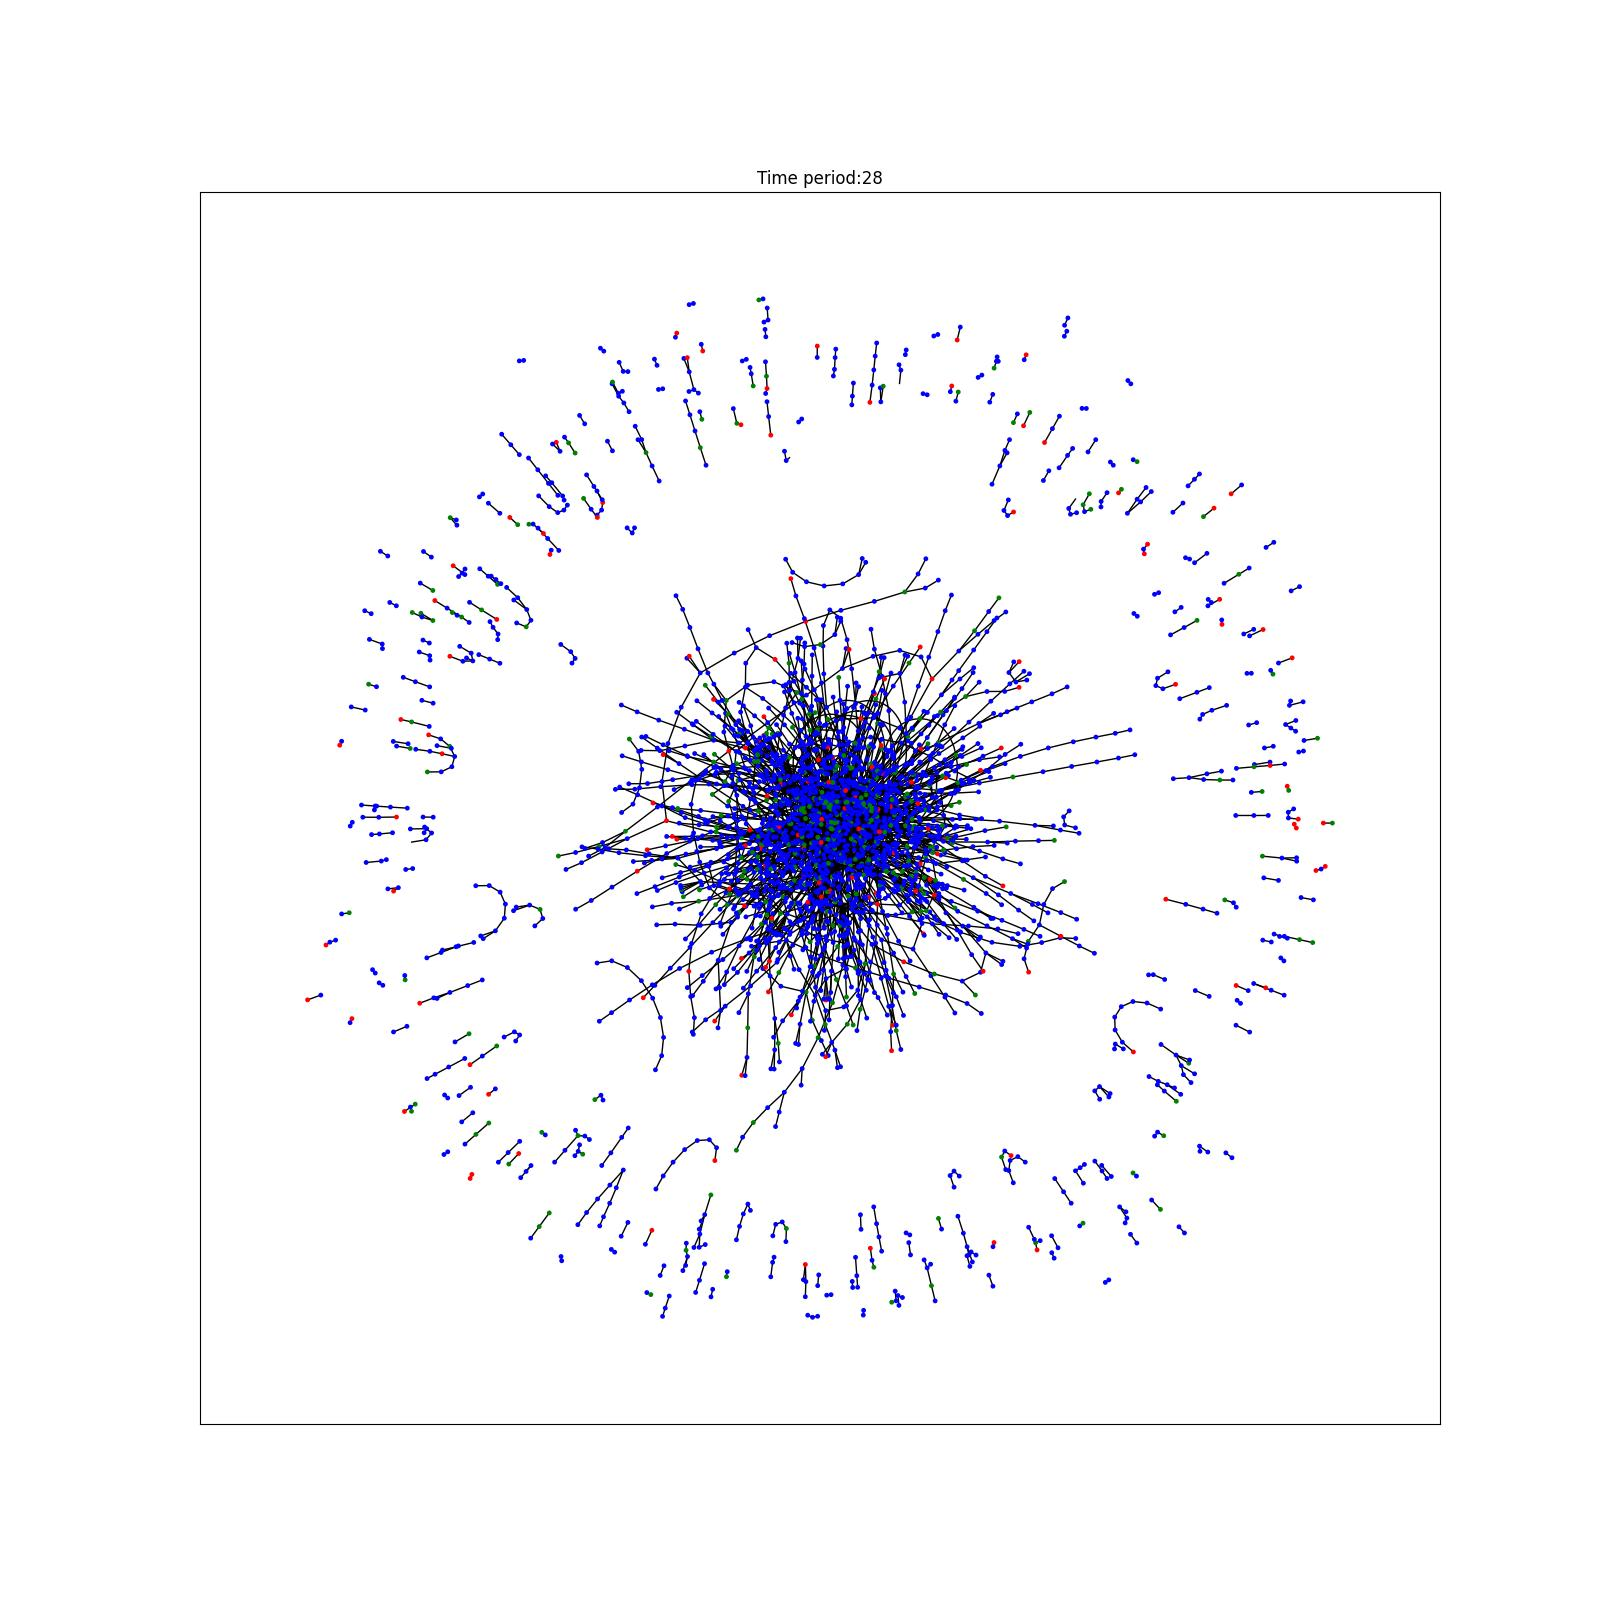
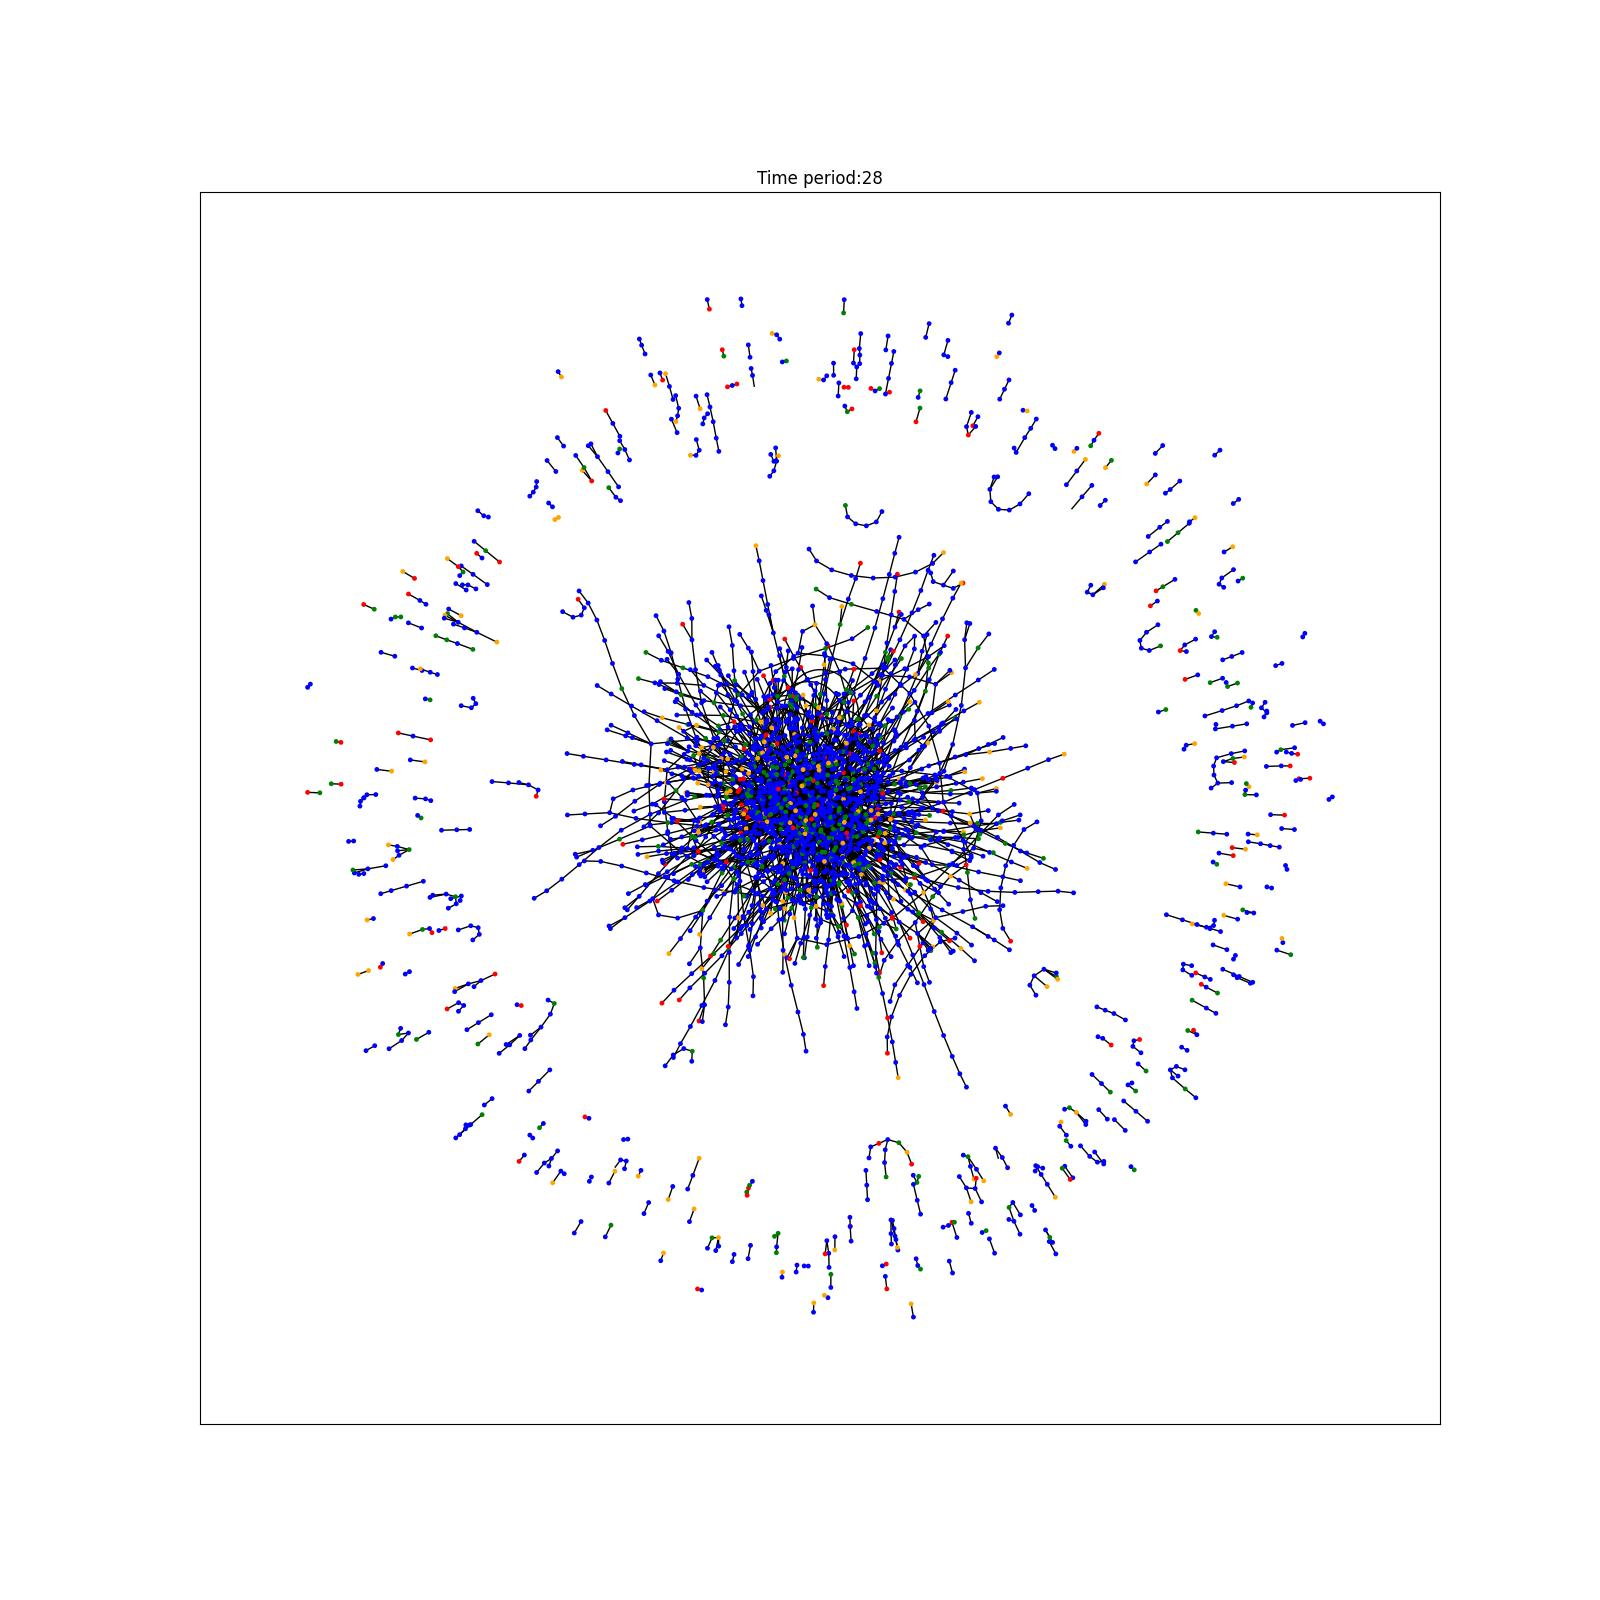
Mayank API v3

diff --git a/ML/c.py b/ML/c.py
@@ -227,46 +227,128 @@ import networkx as nx
 import matplotlib.pyplot as plt
 
 m1 = GATv2(data_train.num_node_features, args['hidden_dim'], 1, args).to(device).double()
-m1.load_state_dict(torch.load(FOLDERNAME + "/resultsmodel"))
+# m1.load_state_dict(torch.load(FOLDERNAME + "/resultsmodel"))
+m1.load_state_dict(torch.load("resultsmodel"))
 gnn_t2 = GnnTrainer(m1)
 output = gnn_t2.predict(data=data_train, unclassified_only=False)
 
 
 
-time_period = 28
-sub_node_list = df_merge.index[df_merge.loc[:, 1] == time_period].tolist()
+# time_period = 28
+# sub_node_list = df_merge.index[df_merge.loc[:, 1] == time_period].tolist()
 
-edge_tuples = []
-for row in data_train.cpu().edge_index.view(-1, 2).numpy():
-  if (row[0] in sub_node_list) | (row[1] in sub_node_list):
-    edge_tuples.append(tuple(row))
-len(edge_tuples)
+# edge_tuples = []
+# for row in data_train.cpu().edge_index.view(-1, 2).numpy():
+#   if (row[0] in sub_node_list) | (row[1] in sub_node_list):
+#     edge_tuples.append(tuple(row))
+# len(edge_tuples)
 
-node_color = []
-for node_id in sub_node_list:
-  if node_id in classified_illicit_idx: #
-     label = "red" # fraud
-  elif node_id in classified_licit_idx:
-     label = "green" # not fraud
-  else:
-    if output['pred_labels'][node_id]:
-      label = "orange" # Predicted fraud
+# node_color = []
+# for node_id in sub_node_list:
+#   if node_id in classified_illicit_idx: #
+#      label = "red" # fraud
+#   elif node_id in classified_licit_idx:
+#      label = "green" # not fraud
+#   else:
+#     if output['pred_labels'][node_id]:
+#       label = "orange" # Predicted fraud
+#     else:
+#       label = "blue" # Not fraud predicted
+
+#   node_color.append(label)
+
+
+# G = nx.Graph()
+# G.add_edges_from(edge_tuples)
+
+# plt.figure(3,figsize=(16,16))
+# plt.title("Time period:"+str(time_period))
+# nx.draw_networkx(G, nodelist=sub_node_list, node_color=node_color, node_size=6, with_labels=False)
+
+# plt.figure(3,figsize=(16,16))
+# plt.title("Time period:"+str(time_period))
+# nx.draw_networkx(G, nodelist=sub_node_list, node_color=node_color, node_size=6, with_labels=False)
+# plt.savefig("output_graph.jpeg", format="jpeg")
+
+# plt.show()
+
+
+from flask import Flask, request, jsonify
+import networkx as nx
+import matplotlib.pyplot as plt
+import cloudinary
+import cloudinary.uploader
+import cloudinary.api
+import json
+import numpy as np
+
+# Initialize Flask app
+app = Flask(__name__)
+
+# Cloudinary configuration
+cloudinary.config( 
+  cloud_name = "df4gpwc0y", 
+  api_key = "568149677141638", 
+  api_secret = "i-ivcnbd_49gWa5ghpAvvQgY9QY" 
+)
+
+# Function to generate the graph and save it with timestep name
+def generate_and_save_graph(time_period, data_train, df_merge, classified_illicit_idx, classified_licit_idx, output):
+    sub_node_list = df_merge.index[df_merge.loc[:, 1] == time_period].tolist()
+
+    edge_tuples = []
+    for row in data_train.cpu().edge_index.view(-1, 2).numpy():
+        if (row[0] in sub_node_list) or (row[1] in sub_node_list):
+            edge_tuples.append(tuple(row))
+
+    node_color = []
+    for node_id in sub_node_list:
+        if node_id in classified_illicit_idx:
+            label = "red"  # fraud
+        elif node_id in classified_licit_idx:
+            label = "green"  # not fraud
+        else:
+            if output['pred_labels'][node_id]:
+                label = "orange"  # Predicted fraud
+            else:
+                label = "blue"  # Not fraud predicted
+        node_color.append(label)
+
+    G = nx.Graph()
+    G.add_edges_from(edge_tuples)
+
+    plt.figure(figsize=(16, 16))
+    plt.title("Time period:" + str(time_period))
+    nx.draw_networkx(G, nodelist=sub_node_list, node_color=node_color, node_size=6, with_labels=False)
+    
+    # Save the image with timestep name
+    plt.savefig(f"output_graph_timestep_{time_period}.jpeg", format="jpeg")  # Use timestep in filename
+
+
+
+# API endpoint to receive time period and upload the image to Cloudinary
+@app.route('/upload', methods=['POST'])
+def upload_to_cloudinary():
+    data = request.json
+    time_period = data.get('time_period')  # Extract time period from input data
+    # Generate and save the graph
+    generate_and_save_graph(time_period, data_train, df_merge, classified_illicit_idx, classified_licit_idx, output)
+
+    # Upload the image to Cloudinary
+    cloudinary.uploader.upload(f"output_graph_timestep_{time_period}.jpeg", public_id=f"output_graph_timestep_{time_period}", unique_filename=False, overwrite=True)
+    srcURL = cloudinary.CloudinaryImage(f"output_graph_timestep_{time_period}").build_url()
+
+    # Get asset info
+    image_info = cloudinary.api.resource(f"output_graph_timestep_{time_period}")
+    if image_info["width"] > 900:
+        update_resp = cloudinary.api.update(f"output_graph_timestep_{time_period}", tags="large")
+    elif image_info["width"] > 500:
+        update_resp = cloudinary.api.update(f"output_graph_timestep_{time_period}", tags="medium")
     else:
-      label = "blue" # Not fraud predicted
+        update_resp = cloudinary.api.update(f"output_graph_timestep_{time_period}", tags="small")
 
-  node_color.append(label)
+    return jsonify({"srcURL": srcURL, "update_resp": update_resp}), 200
 
 
-G = nx.Graph()
-G.add_edges_from(edge_tuples)
-
-plt.figure(3,figsize=(16,16))
-plt.title("Time period:"+str(time_period))
-nx.draw_networkx(G, nodelist=sub_node_list, node_color=node_color, node_size=6, with_labels=False)
-
-plt.figure(3,figsize=(16,16))
-plt.title("Time period:"+str(time_period))
-nx.draw_networkx(G, nodelist=sub_node_list, node_color=node_color, node_size=6, with_labels=False)
-plt.savefig("output_graph.jpeg", format="jpeg")
-
-plt.show()
+if __name__ == '__main__':
+    app.run(debug=True, port=5050)

diff --git a/ML/d.py b/ML/d.py
@@ -2,18 +2,8 @@ import cloudinary
 import cloudinary.uploader
 import cloudinary.api
 
-# Import to format the JSON responses
-# ==============================
 import json
 
-# Set configuration parameter: return "https" URLs by setting secure=True  
-# ==============================
-# config = cloudinary.config( 
-#   cloud_name = "sample", 
-#   api_key = "568149677141638", 
-#   api_secret = "i-ivcnbd_49gWa5ghpAvvQgY9QY@df4gpwc0y",
-#   secure = True
-# )
 
 import cloudinary
           
@@ -25,30 +15,15 @@ cloudinary.config(
 
 def uploadImage():
 
-  # Upload the image and get its URL
-  # ==============================
-
-  # Upload the image.
-  # Set the asset's public ID and allow overwriting the asset with new versions
   cloudinary.uploader.upload("/mnt/c/Users/mcb76/OneDrive/Desktop/output_graph.jpeg", public_id="output_graph", unique_filename = False, overwrite=True)
-
-  # Build the URL for the image and save it in the variable 'srcURL'
   srcURL = cloudinary.CloudinaryImage("output_graph").build_url()
 
-  # Log the image URL to the console. 
-  # Copy this URL in a browser tab to generate the image on the fly.
   print("****2. Upload an image****\nDelivery URL: ", srcURL, "\n")
   
 def getAssetInfo():
-
-  # Get and use details of the image
-  # ==============================
-
-  # Get image details and save it in the variable 'image_info'.
   image_info=cloudinary.api.resource("output_graph")
   print("****3. Get and use details of the image****\nUpload response:\n", json.dumps(image_info,indent=2), "\n")
 
-  # Assign tags to the uploaded image based on its width. Save the response to the update in the variable 'update_resp'.
   if image_info["width"]>900:
     update_resp=cloudinary.api.update("output_graph", tags = "large")
   elif image_info["width"]>500:
@@ -56,7 +31,6 @@ def getAssetInfo():
   else:
     update_resp=cloudinary.api.update("output_graph", tags = "small")
 
-  # Log the new tag to the console.
   print("New tag: ", update_resp["tags"], "\n")
   
 
